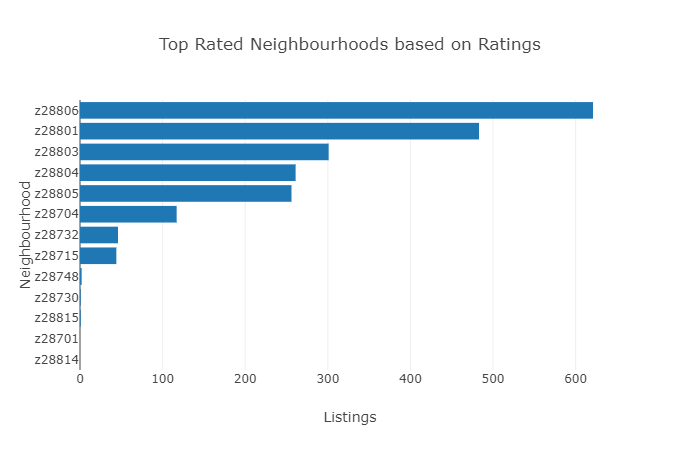
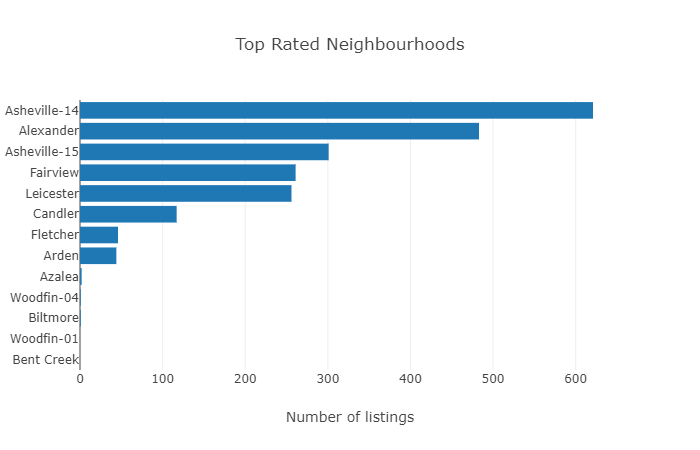
x

Changed region(s): [[0.0, 0.2178, 0.12, 0.8089], [0.24, 0.0622, 0.78, 0.1244], [0.39, 0.9022, 0.6, 0.9644]]

diff --git a/templates/ss_ratingsmap.html b/templates/ss_ratingsmap.html
@@ -17,62 +17,66 @@
 </head>
 
 <body>  
-    <!-- Navigation Section Begins -->
-    <div class="navigation">
-      <nav class="navbar navbar-expand-lg navbar-light bg-light">
-        <a class="navbar-brand" href="{{ url_for ('index') }}">Overview</a>
-        <button class="navbar-toggler" type="button" data-toggle="collapse" data-target="#navbarNavDropdown" aria-controls="navbarNavDropdown" aria-expanded="false" aria-label="Toggle navigation">
-          <span class="navbar-toggler-icon"></span>
-        </button>
-      
-        <div class="collapse navbar-collapse" id="navbarNavDropdown">
-          <!-- List of items in the Navigation section -->
-          <ul class="navbar-nav">
-            <!-- Dashboard in the Navigation Section -->
-            <li class="nav-item">
-              <a class="nav-link" href="{{ url_for ('dashboard') }}">Dashboard</a>
-            </li>
 
-            <!-- Listings in the Navigation Section -->
-            <li class="nav-item">
-              <a class="nav-link" href="{{ url_for ('listings') }}">Listings</a>
-            </li>
+  <!-- Navigation Section Begins -->
+  <div class="navigation">
+    <nav class="navbar navbar-expand-lg navbar-light bg-light">
+      <a class="navbar-brand" href="{{ url_for ('index') }}">Overview</a>
+      <button class="navbar-toggler" type="button" data-toggle="collapse" data-target="#navbarNavDropdown" aria-controls="navbarNavDropdown" aria-expanded="false" aria-label="Toggle navigation">
+        <span class="navbar-toggler-icon"></span>
+      </button>
+    
+      <div class="collapse navbar-collapse" id="navbarNavDropdown">
+        <!-- List of items in the Navigation section -->
+        <ul class="navbar-nav">
+          <!-- Dashboard in the Navigation Section -->
+          <li class="nav-item">
+            <a class="nav-link" href="{{ url_for ('dashboard') }}">Dashboard</a>
+          </li>
 
-            <!-- Visualizations DropDown Menu in the Navigation Section -->
-            <li class="nav-item dropdown">
-              <a class="nav-link dropdown-toggle" href="" id="navbarDropdownMenuLink" role="button" data-toggle="dropdown" aria-haspopup="true" aria-expanded="false">
-              Visualizations
-              </a>
-              <div class="dropdown-menu" aria-labelledby="navbarDropdownMenuLink">
-                <a class="dropdown-item" href="{{ url_for ('roomtypeplot') }}">Types of Listings</a>
-                <a class="dropdown-item" href="{{ url_for ('propertytypesplot') }}">Listed Property Types</a>
-                <a class="dropdown-item" href="{{ url_for ('pg_growth') }}">Growth Analysis</a>
-                <a class="dropdown-item" href="{{ url_for ('hoodsavgpricesplot') }}">Average Prices by Neighbourhood</a>
-                <a class="dropdown-item" href="{{ url_for ('ss_ratingsmap') }}">Highly Rated Listings</a>
-                <a class="dropdown-item" href="{{ url_for ('js_pricesmap') }}">Neighbourhood Pricing</a>
-                <a class="dropdown-item" href="{{ url_for ('pg_ratings') }}">Neighbourhood Ratings</a>
-              </div>
-            </li>
+          <!-- Listings in the Navigation Section -->
+          <li class="nav-item">
+            <a class="nav-link" href="{{ url_for ('listings') }}">Listings</a>
+          </li>
 
-            <!-- Analysis Methodology in the Navigation Section -->
-            <li class="nav-item">
-              <a class="nav-link" href="{{ url_for ('methodology') }}">Methodology</a>
-            </li>
+          <!-- Visualizations DropDown Menu in the Navigation Section -->
+          <li class="nav-item dropdown">
+            <a class="nav-link dropdown-toggle" href="" id="navbarDropdownMenuLink" role="button" data-toggle="dropdown" aria-haspopup="true" aria-expanded="false">
+            Visualizations
+            </a>
+            <div class="dropdown-menu" aria-labelledby="navbarDropdownMenuLink">
+              <a class="dropdown-item" href="{{ url_for ('roomtypeplot') }}">Types of Listings</a>
+              <a class="dropdown-item" href="{{ url_for ('propertytypesplot') }}">Listed Property Types</a>
+              <a class="dropdown-item" href="{{ url_for ('pg_growth') }}">Growth Analysis</a>
+              <a class="dropdown-item" href="{{ url_for ('hoodsavgpricesplot') }}">Average Prices by Neighbourhood</a>
+              <a class="dropdown-item" href="{{ url_for ('ss_ratingsmap') }}">Highly Rated Listings</a>
+              <a class="dropdown-item" href="{{ url_for ('js_pricesmap') }}">Neighbourhood Pricing</a>
+              <a class="dropdown-item" href="{{ url_for ('pg_ratings') }}">Neighbourhood Ratings</a>
+            </div>
+          </li>
 
-            <!-- Acknowledgements in the Navigation Section -->
-            <li class="nav-item">
-              <a class="nav-link" href="{{ url_for ('acknowledgements') }}">Acknowledgements</a>
-            </li>
-          </ul>
-        </div>
-      </nav>
-    </div>
-    <!-- Navigation Section Ends -->
+          <!-- Analysis Methodology in the Navigation Section -->
+          <li class="nav-item">
+            <a class="nav-link" href="{{ url_for ('methodology') }}">Methodology</a>
+          </li>
+
+          <!-- Acknowledgements in the Navigation Section -->
+          <li class="nav-item">
+            <a class="nav-link" href="{{ url_for ('acknowledgements') }}">Acknowledgements</a>
+          </li>
+        </ul>
+      </div>
+    </nav>
+  </div>
+  <!-- Navigation Section Ends -->
   
   <div id="map-holder">
 
     <!-- The div where we will inject our map -->
     <div class="container1 fill">
+    </br></br>
+      <h4 style="text-align: center;"> Visual Representation of 'Star Ratings' in the Area</h4> 
+      <p>Ratings for hosts from 1 (worst) to 5 (best) for the overall experience and for specific categories, including: overall experience, cleanliness, accuracy, value, communication, check-in, and location. Host needs to get 3 star ratings before the overall rating appears on the listing/profile</p>
       <div id="map"></div>
     </div>
 
@@ -80,6 +84,83 @@
     <div class="container2">
       <h5>Filter by Zip Code:</h5>
       <select id="zipCode" onchange="optionChanged(this.value)"></select>
+    </br></br>
+        <table class="table table-striped">
+          <thead> 
+            <tr style="text-align: right;">     
+              <th> City </th>     
+              <th> Zipcode </th>      
+              <th> BnBs </th>  
+            </tr>
+          </thead>  
+          <tbody>    
+            <tr>     
+              <td>Alexander</td>   
+              <td>28701</td>     
+              <td>1</td>    
+            </tr>    
+            <tr>      
+              <td>Arden</td>      
+              <td>28704</td>      
+              <td>132</td>    
+            </tr>   
+            <tr>     
+              <td>Asheville</td>    
+              <td>28801</td>    
+              <td>567</td>    
+            </tr>
+            <tr>      
+              <td>Asheville</td>     
+              <td>28803</td>    
+              <td>331</td>    
+            </tr>
+            <tr>      
+              <td>Asheville</td>     
+              <td>28805</td>    
+              <td>272</td>    
+            </tr>
+            <tr>      
+              <td>Asheville</td>     
+              <td>28806</td>    
+              <td>665</td>    
+            </tr>
+            <tr>      
+              <td>Asheville</td>     
+              <td>28814</td>      
+              <td>1</td>  
+            </tr>
+            <tr>      
+              <td>Asheville</td>     
+              <td>28815</td>    
+              <td>1</td>  
+            </tr>
+            <tr>      
+              <td>Candler</td>   
+              <td>28715</td>      
+              <td>50</td>   
+            </tr>
+            <tr>      
+              <td>Fairview</td>    
+              <td>28730</td>     
+              <td>1</td>  
+            </tr>
+            <tr>      
+              <td>Fletcher</td>    
+              <td>28732</td>     
+              <td>52</td>   
+            </tr>
+            <tr>      
+              <td>Leicester</td>      
+              <td>28748</td>    
+              <td>2</td>  
+            </tr>
+            <tr>      
+              <td>Woodfin</td>     
+              <td>28804</td>      
+              <td>290</td>    
+            </tr> 
+          </tbody>
+        </table>
     </div>
 
   </div>

diff --git a/static/js/barplot_rating.js b/static/js/barplot_rating.js
@@ -12,13 +12,16 @@ function barplot() {
         console.log(sortedArray);
         var reversedArray = sortedArray.reverse();
         console.log(reversedArray);
-
-
-        
+      
+        var city_name = ['Bent Creek','Woodfin-01','Biltmore','Woodfin-04','Azalea','Arden','Fletcher',
+                          'Candler','Leicester','Fairview','Asheville-15','Alexander','Asheville-14' ];
+      
+      
         // Store the x axis values, y axis values, text labels needed for the bar plot
 
         x_bar = reversedArray.map((row) => row[1]['review_scores_rating']);
-        y_bar = reversedArray.map((row) => 'z' + row[1]['zipcode']);
+        // y_bar = reversedArray.map((row) => 'z' + row[1]['zipcode']);
+        y_bar = city_name ;
         // //text_labels = reversedArray.map((row) => row[1]['review_scores_rating']);
 
         var trace ={
@@ -26,7 +29,8 @@ function barplot() {
             y: y_bar,
             //text: text_labels,
             type:"bar",
-            orientation:'h'
+            orientation:'h',
+            color:'r'
             
             
         }
@@ -36,11 +40,11 @@ function barplot() {
         var layout = {
             title : 'Top Rated Neighbourhoods based on Ratings',
             xaxis :{
-                title:'Listings'
-            },
-            yaxis : {
-                title:'Neighbourhood'
+                title:'Number of listings'
             }
+            // yaxis : {
+            //     title:'Zipcode'
+            // }
         }
         
         Plotly.newPlot("bar_rating",data,layout);

diff --git a/static/js/growth_analysis.js b/static/js/growth_analysis.js
@@ -48,24 +48,46 @@ function readData(){
 
         console.log(year);
         console.log(valueCount);
-    
 
-        var trace ={
+        var totalCount =[];
+        var total_temp = valueCount[0];
+        totalCount.push(total_temp);
+
+        for(var i=1; i<=valueCount.length; i++)
+        {
+            temp = valueCount[i]+totalCount[i-1];
+            //total=total_temp
+
+            totalCount.push(temp);
+
+        }
+        
+        console.log(temp);
+
+        var trace1 ={
             x: year,
             y: valueCount,
             //text: valueCount,
-            type:'scatter'
+            type:'scatter',
+            name:'New Listings'
         }
 
-        data =[trace];
+        var trace2 ={
+            x: year,
+            y: totalCount,
+            type:'scatter',
+            name:'Total Listings'
+        }
+
+        data =[trace1 , trace2];
 
         layout = {
-            title : 'Airbnb Growth in Asheville (2009-2020)',
+            title : 'Growth Analysis of Airbnb in Asheville',
                 xaxis :{
                     title:'Year'
                 },
                 yaxis : {
-                    title:'New listings'
+                    title:'Numner of listings'
                 }
         }
 

diff --git a/templates/pg_growth.html b/templates/pg_growth.html
@@ -88,7 +88,11 @@
         <div class="col-md-4">
           <br>
           <h5>Airbnb Growth (2009-2020)</h5>
-          <p></p>
+          <p>Airbnb has seen seen tremendous growth in Asheville since its first listing in 2009. 
+            The number of listings as of 2020 is 2387 which is around 112,950% increase. 
+            However, it is interesting to note that the number of new listings per year is decreasing gradually since 2017.
+            There is a sharp decline in the count in 2020. This could be due to various factors like:
+            Covid-19 effect on tourism industry or Airbnb listings are reaching their point of saturation in Asheville,etc.</p>
           </div>
         <!--Left pane for plot description ends-->
         <!--Right pane for plot begins-->

diff --git a/templates/pg_ratings.html b/templates/pg_ratings.html
@@ -86,9 +86,12 @@
       <div class="row">
         <!--Left pane for plot description begins-->
         <div class="col-md-4">
-          <h5>Neighbourhood Ratings</h5>
           <br>
-          <p>Add plot description</p>
+          <h5>Top Rated Neighbourhoods based on Ratings</h5>
+          <br>
+          <p>The idea behind this analysis was to find out which neighbourhoods have better listings based on 
+            user ratings. It can be seen from the graph that areas like Asheville, Alexander, Fairview
+            have listings that received good ratings from users.</p>
           </div>
         <!--Left pane for plot description ends-->
         <!--Right pane for plot begins-->

diff --git a/templates/rw_dashboard.html b/templates/rw_dashboard.html
@@ -147,7 +147,7 @@
         <div class="col-lg-6">
           <div class="title">Best Neighbourhoods by Rating</div>
             <a href="{{ url_for ('pg_ratings') }}">
-            <img class="panel" id="activeimage" src="static/images/topratedneighborhoods" alt="Neighbourhood Ratings"width="500px", height="300px">
+            <img class="panel" id="activeimage" src="static/images/topratedneighborhoods.png" alt="Neighbourhood Ratings"width="500px", height="300px">
             </a>
         </div>
                 
